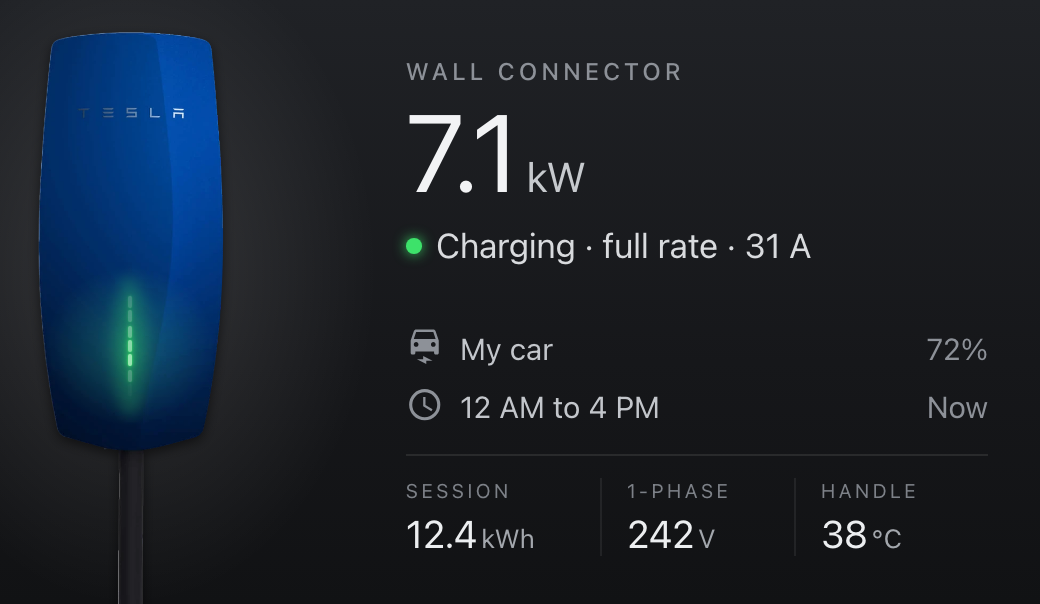
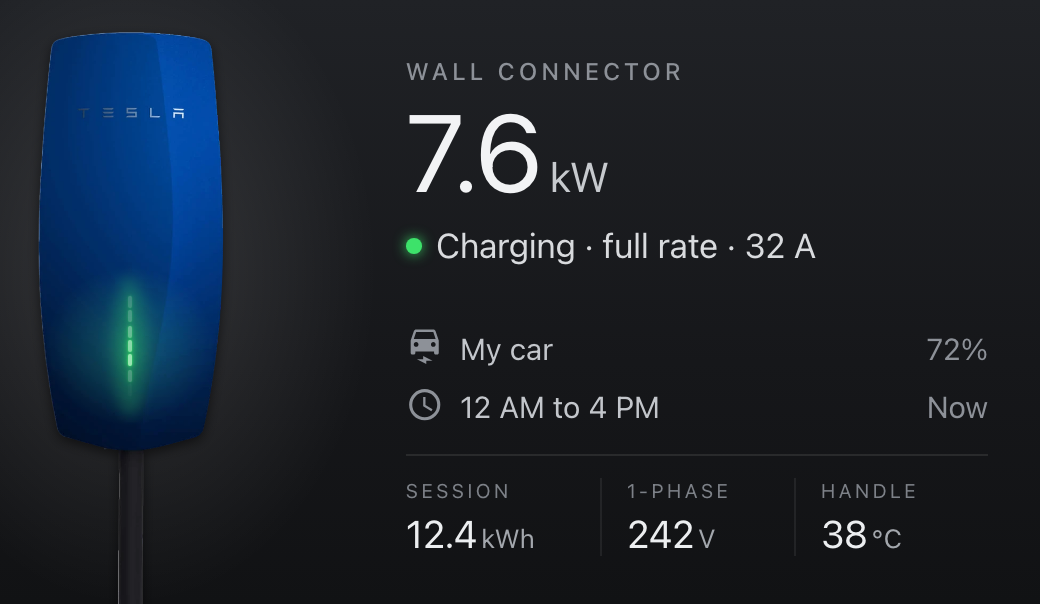
Show 32 A in the README, and add three-phase examples
- The single-phase charging examples now draw 31.6 A from a 32 A charger,
  so they read "Charging · full rate · 32 A" (and 7.6 kW)
- Two new screenshots under "Full rate or reduced": a three-phase charger
  at 16 A on every phase, and one with the car drawing from only one phase

Changed region(s): [[0.4615, 0.1788, 0.5846, 0.3278], [0.7385, 0.3874, 0.8, 0.447]]

diff --git a/tools/preview.html b/tools/preview.html
@@ -24,7 +24,7 @@
 const SCENARIOS = {
   idle:     { label: 'Not plugged in',                  status: 'not_connected', plugged: false },
   waiting:  { label: 'Plugged in, waiting for the schedule', status: 'negotiating', plugged: true },
-  charging: { label: 'Charging, full rate',             status: 'charging_reduced', plugged: true, closed: true, kw: 7.1, amps: 30.8, session: 12.4, handle: 38 },
+  charging: { label: 'Charging, full rate',             status: 'charging_reduced', plugged: true, closed: true, kw: 7.6, amps: 31.6, session: 12.4, handle: 38 },
   reduced:  { label: 'Charging, reduced',               status: 'charging_reduced', plugged: true, closed: true, kw: 2.8, amps: 12.1, session: 23.9, handle: 29 },
   three:    { label: 'Three-phase, full rate',          status: 'charging', plugged: true, closed: true, kw: 11.0, amps: 15.9, session: 8.2, handle: 35, phases: 3, max: 16 },
   oneofthree: { label: 'Three-phase, car on one phase', status: 'charging_reduced', plugged: true, closed: true, kw: 3.7, amps: 15.9, session: 3.1, handle: 30, phases: 3, used: 1, max: 16 },

diff --git a/tools/screenshots.js b/tools/screenshots.js
@@ -24,6 +24,8 @@ const SHOTS = [
   ['charging-deep-blue.png', 'deep_blue_metallic', 'charging', 520, '01:30', 900],
   ['complete-red.png', 'red_multi_coat', 'complete', 520, '06:10', 0],
   ['phone-solid-black.png', 'solid_black', 'charging', 360, '01:30', 600],
+  ['three-phase-white.png', 'white', 'three', 520, '01:30', 900],
+  ['three-phase-one-solid-black.png', 'solid_black', 'oneofthree', 520, '01:30', 900],
 ];
 
 async function open(browser, faceplate, state, width, time, scale) {

diff --git a/README.md b/README.md
@@ -67,10 +67,17 @@ the Tesla app) and the status line says whether the car is getting all of it:
 
 | Status line | When |
 |---|---|
-| Charging · full rate · 31 A | Every live phase is within 2 A of `max_current` (cars draw a little under what they're offered) |
+| Charging · full rate · 32 A | Every live phase is within 2 A of `max_current` (cars draw a little under what they're offered) |
 | Charging · reduced · 12 of 32 A | A live phase is further below `max_current` |
 | Charging · reduced · 1 phase | A three-phase charger, but the car is only drawing from one or two phases |
-| Charging · 31 A | No `max_current` given, so the card doesn't say |
+| Charging · 32 A | No `max_current` given, so the card doesn't say |
+
+On a three-phase charger set to 16 A, at full rate and with a car drawing from only one phase:
+
+| | |
+|:---:|:---:|
+| ![Three-phase, full rate](docs/three-phase-white.png) | ![Three-phase, car on one phase](docs/three-phase-one-solid-black.png) |
+| **Three-phase, full rate.** 16 A on all three phases, and **3-phase** above the voltage. | **Three-phase, reduced.** The car is only drawing from one of the three phases. |
 
 Reduced means the car is taking less than the charger can supply. The card can't tell why: the car's
 own charge current setting, a nearly full or cold battery, or the charger cutting back all look the
